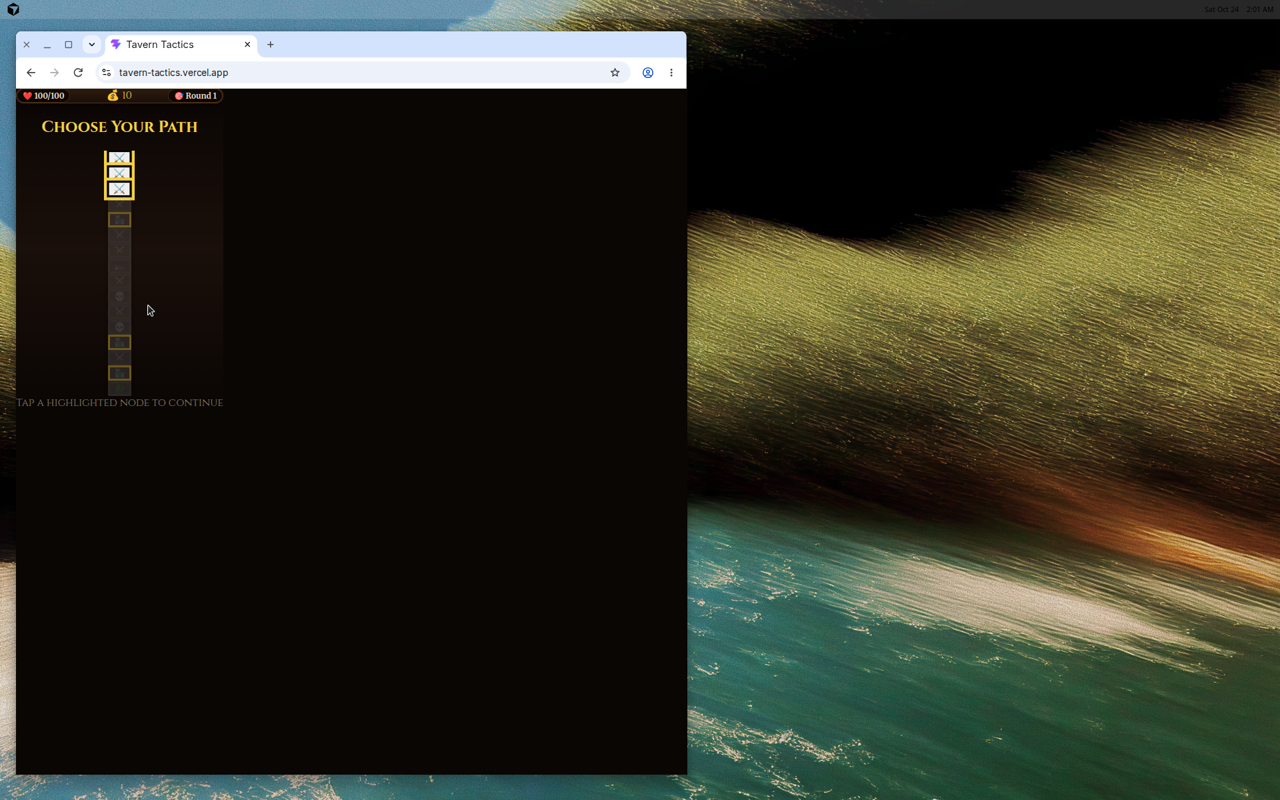
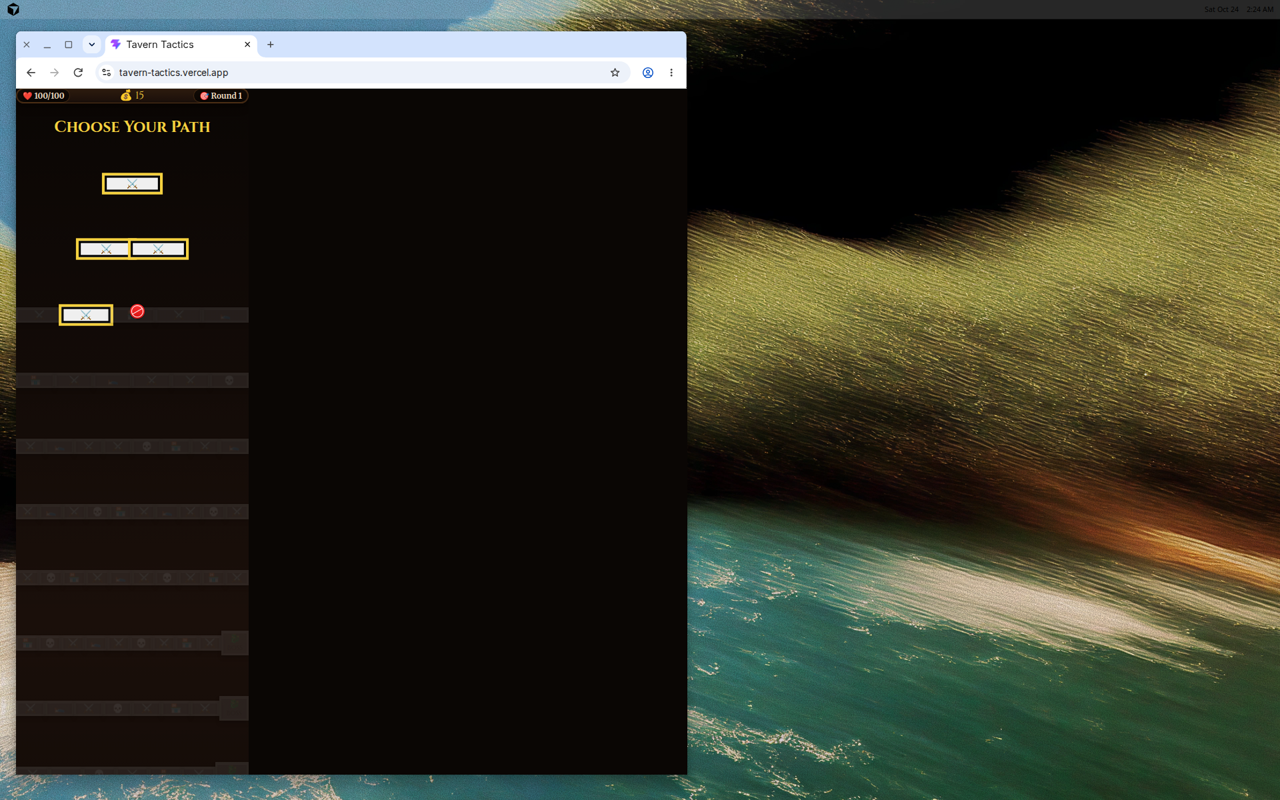
Fix critical shop, combat, and width bugs
SHOP FIXES:
- Auto-place bought heroes directly into first empty party slot
- Heroes no longer go to bench first - immediate placement
- Enter Dungeon button now DISABLED until at least 1 hero recruited
- Added animated instruction: 'Tap heroes above to recruit them!'
- Shop subtitle shows 'Tap to recruit heroes' for clarity
- Clear visual feedback when buying heroes

COMBAT FIXES:
- Enemy names now WHITE with drop-shadow (was unreadable dark on dark)
- Enemy HP text now WHITE BOLD with drop-shadow (was red-200, hard to read)
- Increased HP text size from 10px to 11px
- All enemy text now clearly visible on dark backgrounds

WIDTH FIXES:
- Added width: 100% to html, body, and #root elements
- Added height: 100% to html and body
- Ensures full viewport width on ALL devices including real iPhones
- Fixed 70% width issue on iPhone Safari (393px)

GAME FLOW:
- Buying hero → instant placement on board → visible in combat
- No more empty party in battles
- Proper hero state management through shop → combat flow

diff --git a/src/contexts/GameContext.tsx b/src/contexts/GameContext.tsx
@@ -58,28 +58,63 @@ export function GameProvider({ children }: { children: ReactNode }) {
   };
 
   const buyHero = (hero: Hero) => {
-    if (state.gold >= hero.cost && state.bench.length < 8) {
+    if (state.gold >= hero.cost) {
       const newHero = createHeroInstance(hero);
-      const allHeroes = [...state.board.filter((h): h is Hero => h !== null), ...state.bench, newHero];
-      const { heroes: combinedHeroes } = checkAndCombineHeroes(allHeroes);
       
-      const newBoard = state.board.map(slot => {
-        if (slot === null) return null;
-        const found = combinedHeroes.find(h => h.instanceId === slot.instanceId);
-        return found || null;
-      });
+      // Find first empty board slot
+      const emptyBoardIndex = state.board.findIndex(slot => slot === null);
       
-      const newBench = combinedHeroes.filter(h => 
-        !newBoard.some(boardHero => boardHero?.instanceId === h.instanceId)
-      );
-      
-      setState(prev => ({
-        ...prev,
-        gold: prev.gold - hero.cost,
-        bench: newBench,
-        board: newBoard,
-        shop: prev.shop.filter(h => h.instanceId !== hero.instanceId)
-      }));
+      // If there's space on board, place directly
+      if (emptyBoardIndex !== -1) {
+        const newBoard = [...state.board];
+        newBoard[emptyBoardIndex] = newHero;
+        
+        // Check for combining with existing heroes
+        const allHeroes = newBoard.filter((h): h is Hero => h !== null).concat(state.bench);
+        const { heroes: combinedHeroes } = checkAndCombineHeroes(allHeroes);
+        
+        // Redistribute after combining
+        const finalBoard: (Hero | null)[] = Array(5).fill(null);
+        const finalBench: Hero[] = [];
+        
+        combinedHeroes.forEach((h, idx) => {
+          if (idx < 5) {
+            finalBoard[idx] = h;
+          } else {
+            finalBench.push(h);
+          }
+        });
+        
+        setState(prev => ({
+          ...prev,
+          gold: prev.gold - hero.cost,
+          board: finalBoard,
+          bench: finalBench,
+          shop: prev.shop.filter(h => h.instanceId !== hero.instanceId)
+        }));
+      } else if (state.bench.length < 8) {
+        // Board full, add to bench
+        const allHeroes = [...state.board.filter((h): h is Hero => h !== null), ...state.bench, newHero];
+        const { heroes: combinedHeroes } = checkAndCombineHeroes(allHeroes);
+        
+        const newBoard = state.board.map(slot => {
+          if (slot === null) return null;
+          const found = combinedHeroes.find(h => h.instanceId === slot.instanceId);
+          return found || null;
+        });
+        
+        const newBench = combinedHeroes.filter(h => 
+          !newBoard.some(boardHero => boardHero?.instanceId === h.instanceId)
+        );
+        
+        setState(prev => ({
+          ...prev,
+          gold: prev.gold - hero.cost,
+          bench: newBench,
+          board: newBoard,
+          shop: prev.shop.filter(h => h.instanceId !== hero.instanceId)
+        }));
+      }
     }
   };
 

diff --git a/src/components/ShopScreen.tsx b/src/components/ShopScreen.tsx
@@ -9,8 +9,11 @@ export default function ShopScreen() {
   const bonuses = getSynergyBonuses(synergies);
   
   const isInitialShop = !state.currentRoom;
+  const hasHeroes = state.board.some(h => h !== null);
   
   const handleProceed = () => {
+    if (!hasHeroes) return; // Safety check
+    
     if (isInitialShop) {
       // Go to map for first time
       selectRoom('map');
@@ -78,7 +81,12 @@ export default function ShopScreen() {
       {/* Shop */}
       <div className="flex-1 panel m-2 p-3 overflow-y-auto space-y-3">
         <div className="flex justify-between items-center">
-          <h3 className="text-tavern-gold font-display font-bold text-lg">Tavern Shop</h3>
+          <div>
+            <h3 className="text-tavern-gold font-display font-bold text-lg">Tavern Shop</h3>
+            <p className="text-tavern-parchment-dark text-[10px] font-display">
+              Tap to recruit heroes
+            </p>
+          </div>
           <button
             onClick={refreshShop}
             disabled={state.gold < 2}
@@ -152,10 +160,16 @@ export default function ShopScreen() {
       </div>
       
       {/* Ready Button */}
-      <div className="p-3">
+      <div className="p-3 space-y-2">
+        {!hasHeroes && (
+          <div className="text-center text-tavern-gold text-sm font-display animate-pulse">
+            👆 Tap heroes above to recruit them!
+          </div>
+        )}
         <button
           onClick={handleProceed}
-          className="btn-primary w-full"
+          disabled={!hasHeroes}
+          className="btn-primary w-full disabled:opacity-30 disabled:cursor-not-allowed"
         >
           {isInitialShop ? '🗺 Enter Dungeon' : '⚔ Continue'}
         </button>

diff --git a/src/components/CombatScreen.tsx b/src/components/CombatScreen.tsx
@@ -198,7 +198,7 @@ export default function CombatScreen() {
               >
                 <div className="text-5xl">{enemy.emoji}</div>
                 <div className="text-center w-full">
-                  <div className="text-white text-xs font-display font-bold mb-1">
+                  <div className="text-white text-xs font-display font-bold mb-1 drop-shadow-lg">
                     {enemy.name}
                   </div>
                   {/* HP Bar */}
@@ -208,7 +208,7 @@ export default function CombatScreen() {
                       style={{ width: `${Math.max(0, hpPercent)}%` }}
                     />
                   </div>
-                  <div className="text-[10px] text-red-200 mt-1">
+                  <div className="text-[11px] text-white font-bold mt-1 drop-shadow-md">
                     {Math.max(0, enemy.currentHealth)}/{enemy.stats.health} HP
                   </div>
                 </div>

diff --git a/src/index.css b/src/index.css
@@ -16,7 +16,16 @@
     --tavern-bronze: #cd7f32;
   }
   
+  html {
+    width: 100%;
+    height: 100%;
+    margin: 0;
+    padding: 0;
+  }
+  
   body {
+    width: 100%;
+    height: 100%;
     margin: 0;
     padding: 0;
     font-family: 'Merriweather', serif;
@@ -35,6 +44,7 @@
   }
 
   #root {
+    width: 100%;
     min-height: 100vh;
     min-height: 100dvh;
   }
